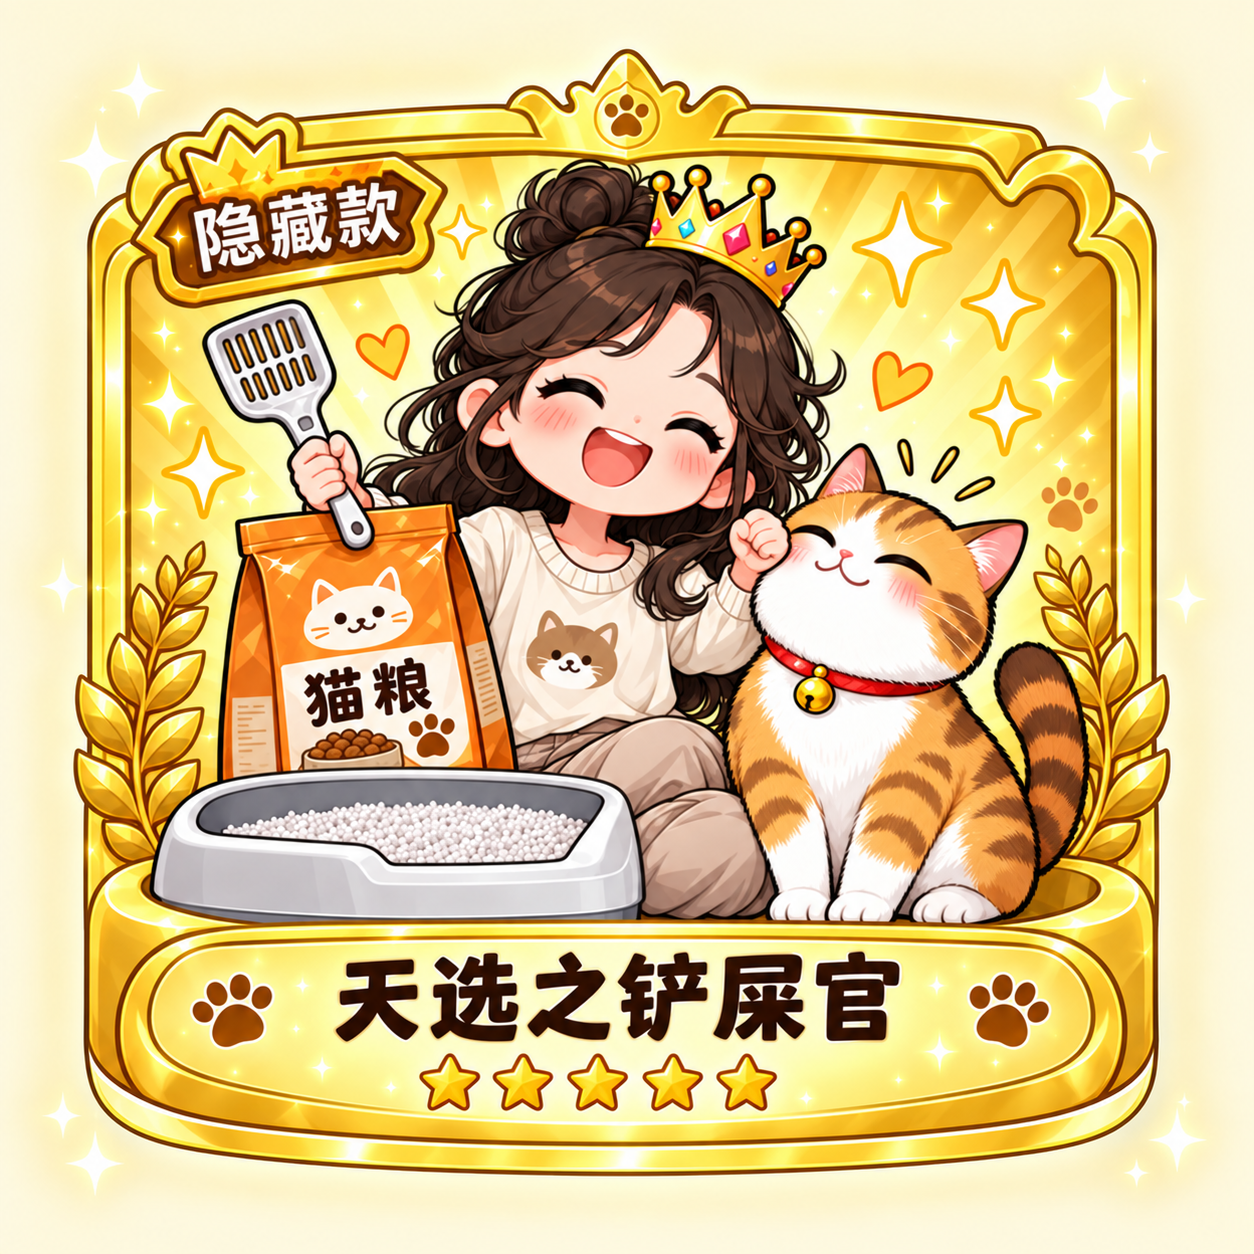
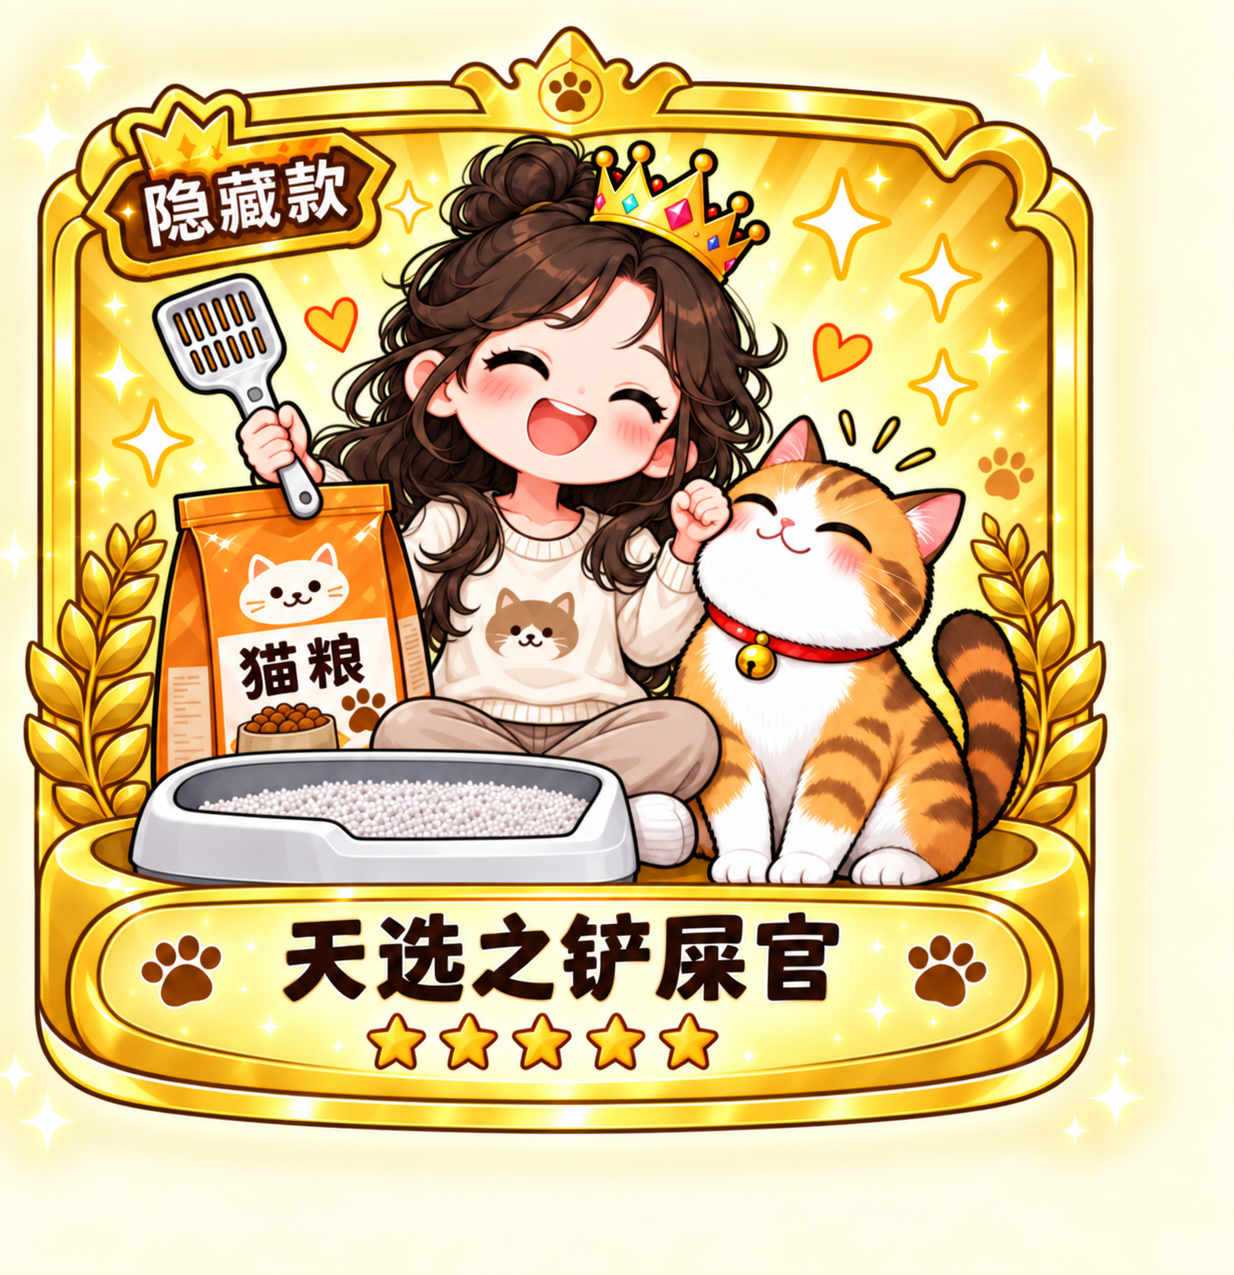
Use cross-legged hidden litter owner artwork

diff --git a/src/App.jsx b/src/App.jsx
@@ -16,7 +16,7 @@ import { assetBase, catSuffixes, questions, roles, traits, uiCopy } from './data
 import { buildResultFromSlug, calculateResult, createShareText, getAllHiddenResults, getAllNormalResults } from './lib/scoring';
 import { clearDraft, readDraft, readLastResult, readUnlockedResults, saveDraft, saveLastResult, unlockResult } from './lib/storage';
 
-const assetVersion = '20260914d';
+const assetVersion = '20260914f';
 const versionedAsset = (path) => `${assetBase}${path}?v=${assetVersion}`;
 
 function getHashRoute() {
@@ -462,6 +462,8 @@ export default function App() {
 
   return <Shell>{page}</Shell>;
 }
+
+
 
 
 
